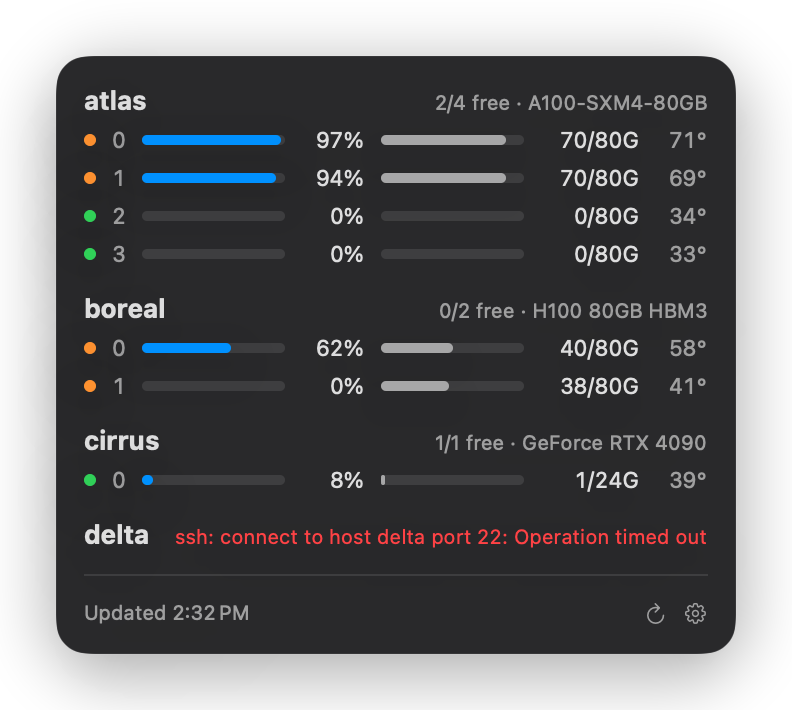
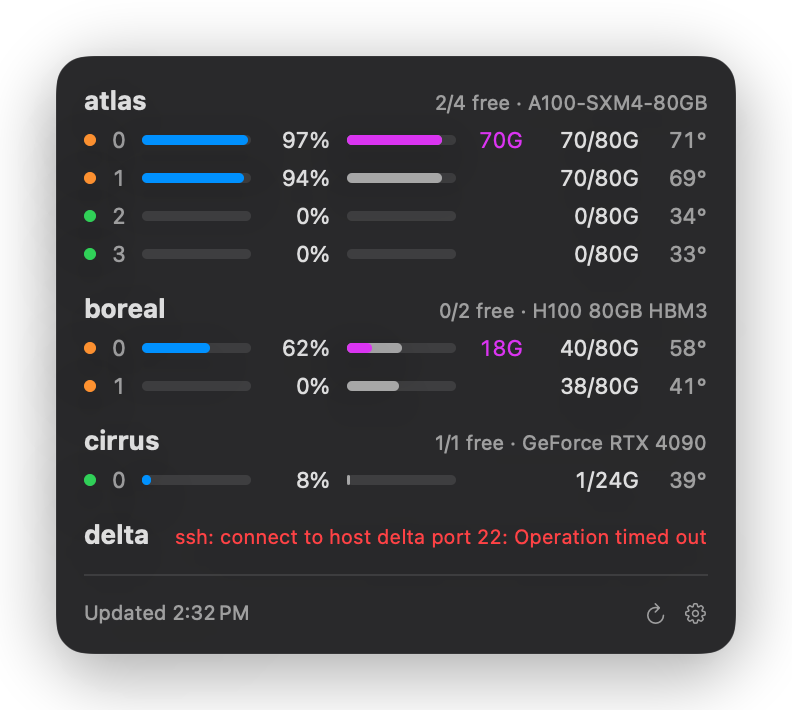
Show your own GPU memory use per GPU

diff --git a/GPUBar.swift b/GPUBar.swift
@@ -4,7 +4,12 @@ import ServiceManagement
 import SwiftUI
 
 let hostsFile = URL.homeDirectory.appending(path: ".config/gpubar/hosts")
-let query = "nvidia-smi --query-gpu=index,name,utilization.gpu,memory.used,memory.total,temperature.gpu --format=csv,noheader,nounits"
+// GPU rows, then "uuid, MiB" per compute process the ssh user owns (/proc/<pid> ownership). sh -c: any login shell.
+let query = """
+sh -c 'nvidia-smi --query-gpu=index,name,utilization.gpu,memory.used,memory.total,temperature.gpu,uuid --format=csv,noheader,nounits && \
+nvidia-smi --query-compute-apps=gpu_uuid,pid,used_memory --format=csv,noheader,nounits | \
+while IFS=", " read -r g p m; do if [ -O /proc/$p ]; then echo "$g, $m"; fi; done'
+"""
 
 // Re-read on every refresh, so edits apply without a restart. Lines starting with # are skipped.
 func hosts() -> [String] {
@@ -15,6 +20,7 @@ func hosts() -> [String] {
 
 struct GPU: Identifiable {
     let id: Int, name: String, util: Int, memUsed: Int, memTotal: Int, temp: Int
+    var mine = 0  // MiB held by your processes
     // free = idle and holding under 5% of its memory
     var free: Bool { util < 10 && memUsed * 20 < memTotal }
 }
@@ -38,11 +44,12 @@ func fetch(_ host: String) async -> Node {
                 let msg = p.terminationReason == .uncaughtSignal ? "timed out" : text(err).split(separator: "\n").last.map(String.init)
                 return done.resume(returning: Node(id: host, error: msg ?? "exit \(p.terminationStatus)"))
             }
-            let gpus = text(out).split(separator: "\n").compactMap { line -> GPU? in
-                let f = line.split(separator: ",").map { $0.trimmingCharacters(in: .whitespaces) }
-                guard f.count == 6 else { return nil }
+            let rows = text(out).split(separator: "\n").map { $0.split(separator: ",").map { $0.trimmingCharacters(in: .whitespaces) } }
+            var mine = [String: Int]()
+            for f in rows where f.count == 2 { mine[f[0], default: 0] += Int(f[1]) ?? 0 }
+            let gpus = rows.filter { $0.count == 7 }.map { f in
                 let n = f.map { Int($0) ?? 0 }  // "[N/A]" fields read as 0
-                return GPU(id: n[0], name: f[1].replacingOccurrences(of: "NVIDIA ", with: ""), util: n[2], memUsed: n[3], memTotal: n[4], temp: n[5])
+                return GPU(id: n[0], name: f[1].replacingOccurrences(of: "NVIDIA ", with: ""), util: n[2], memUsed: n[3], memTotal: n[4], temp: n[5], mine: mine[f[6]] ?? 0)
             }
             done.resume(returning: Node(id: host, gpus: gpus))
         }
@@ -173,12 +180,13 @@ struct Row: View {
             Text("\(gpu.id)").foregroundStyle(.secondary)
             Bar(fraction: Double(gpu.util) / 100, color: .accentColor)
             Text("\(gpu.util)%").frame(width: 32, alignment: .trailing)
-            Bar(fraction: Double(gpu.memUsed) / Double(max(gpu.memTotal, 1)), color: .secondary)
+            Bar(fraction: Double(gpu.memUsed) / Double(max(gpu.memTotal, 1)), color: .secondary, mine: Double(gpu.mine) / Double(max(gpu.memTotal, 1)))
+            Text(gpu.mine > 0 ? "\(gb(gpu.mine))G" : "").foregroundStyle(.purple).frame(width: 26, alignment: .trailing)
             Text("\(gb(gpu.memUsed))/\(gb(gpu.memTotal))G").frame(width: 50, alignment: .trailing)
             Text("\(gpu.temp)°").foregroundStyle(.secondary).frame(width: 26, alignment: .trailing)
         }
         .font(.system(size: 11).monospacedDigit())
-        .help("\(gpu.name) · util \(gpu.util)% · \(gpu.memUsed) MiB used")
+        .help("\(gpu.name) · util \(gpu.util)% · \(gpu.memUsed) MiB used, yours \(gpu.mine) MiB")
     }
 
     func gb(_ mib: Int) -> Int { Int((Double(mib) / 1024).rounded()) }
@@ -186,10 +194,16 @@ struct Row: View {
 
 struct Bar: View {
     let fraction: Double, color: Color
+    var mine = 0.0  // your share, drawn over the fill in purple
 
     var body: some View {
         Capsule().fill(.quaternary)
-            .overlay(alignment: .leading) { GeometryReader { Capsule().fill(color).frame(width: $0.size.width * fraction) } }
+            .overlay(alignment: .leading) {
+                GeometryReader { g in
+                    Capsule().fill(color).frame(width: g.size.width * fraction)
+                    Capsule().fill(.purple).frame(width: g.size.width * mine)
+                }
+            }
             .frame(height: 5)
     }
 }

diff --git a/README.md b/README.md
@@ -6,6 +6,7 @@
 
 The menu bar shows free GPUs and mean utilization across all hosts, e.g. `6/12 · 23%`.
 Click it for utilization, memory and temperature per GPU.
+Memory held by your own processes shows in purple.
 
 <p align="center"><img src="screenshot.png" width="396" alt="GPUBar popover with sample data"></p>
 
